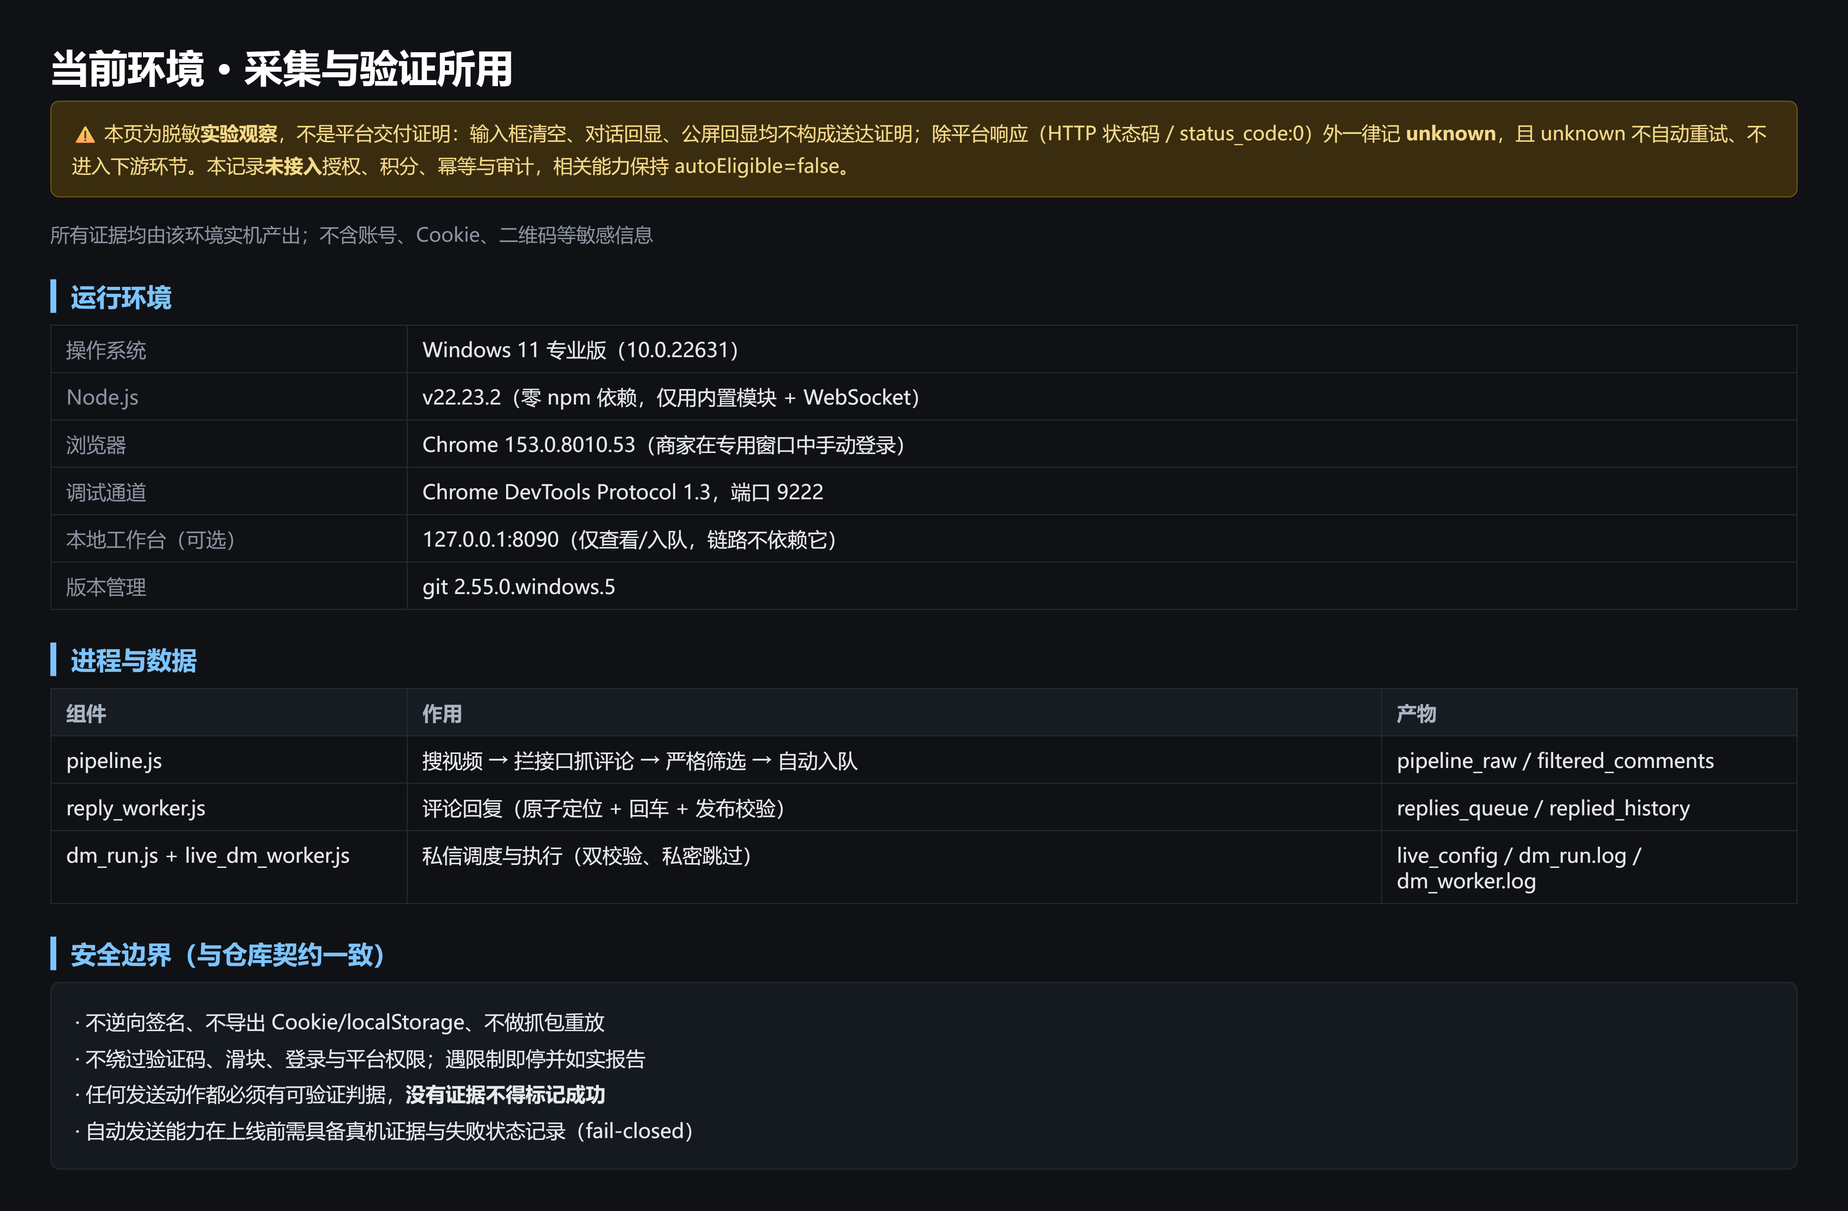
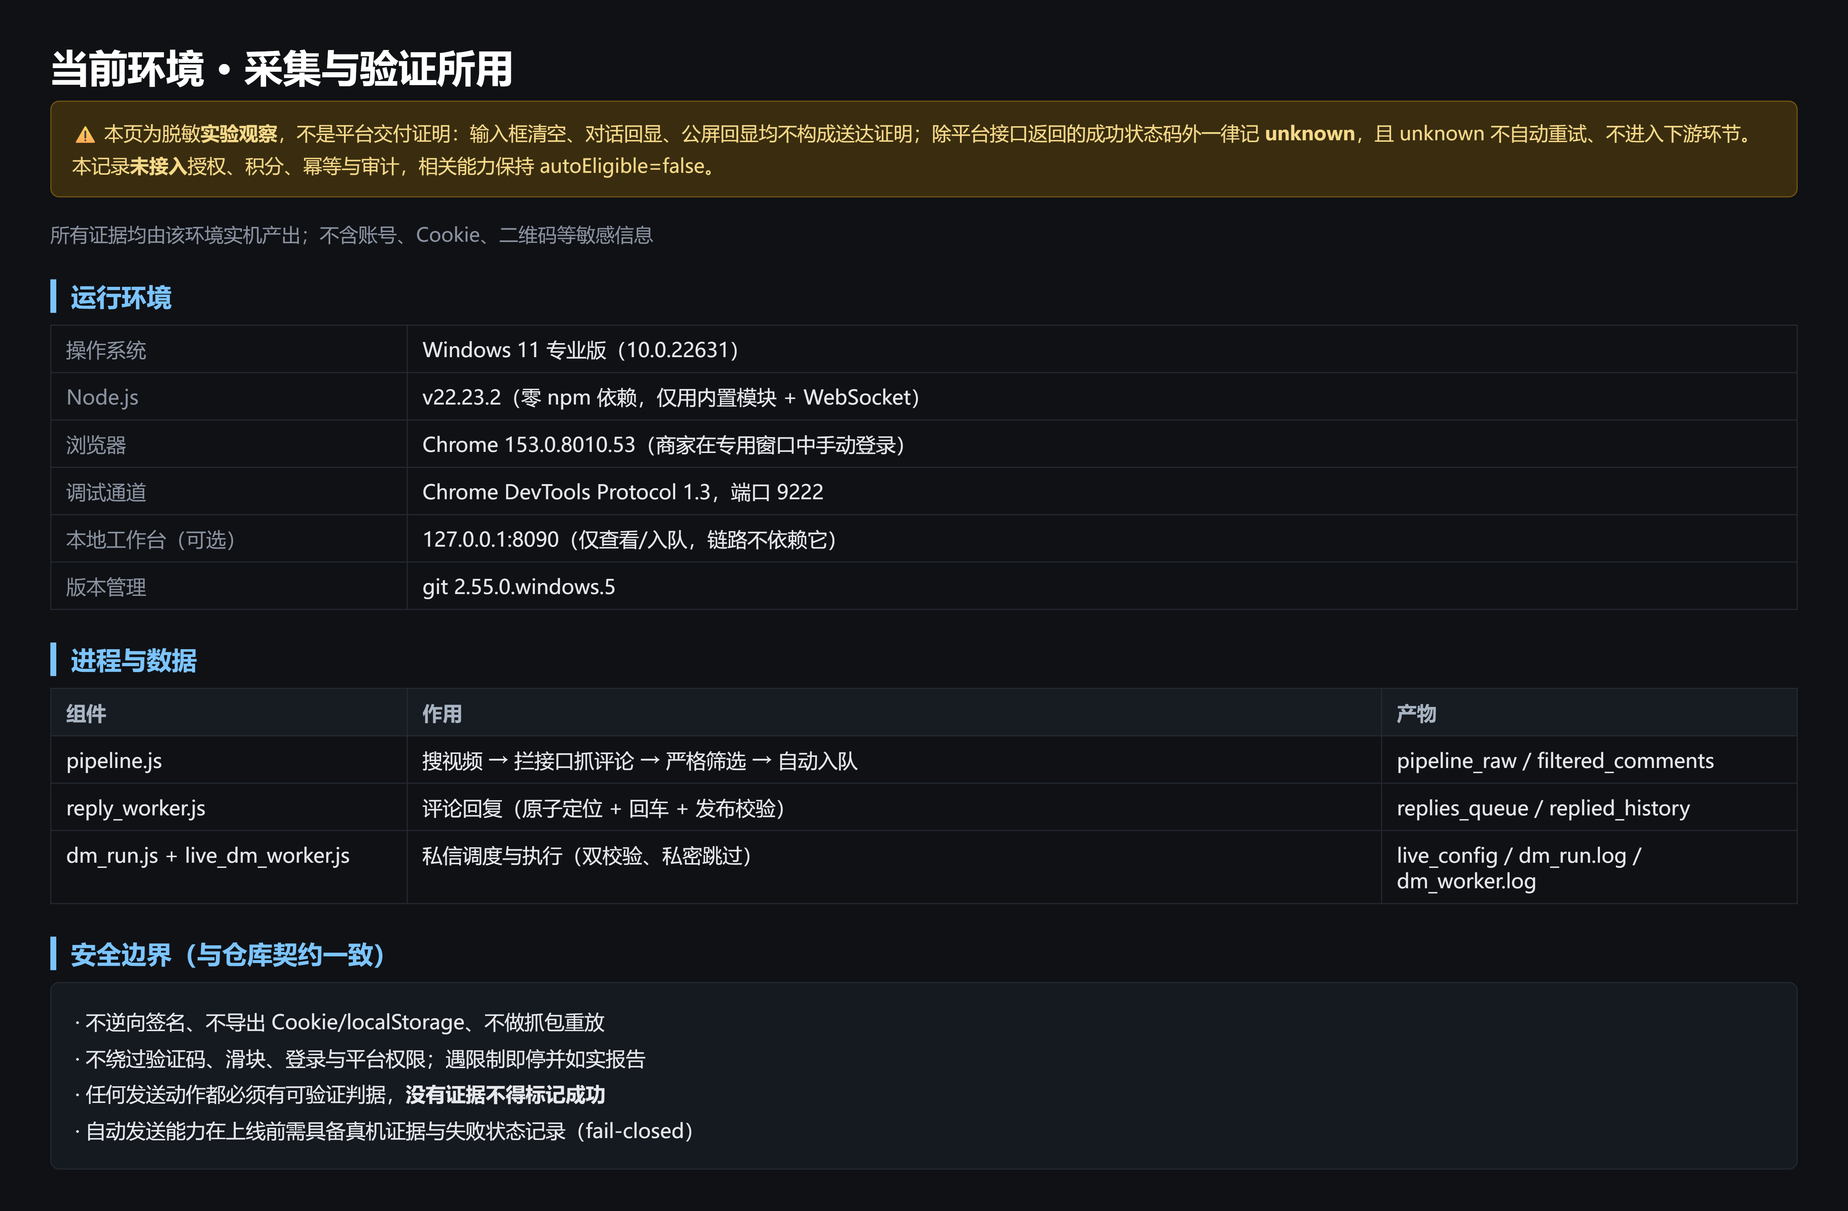
docs(probe): 修正送达口径措辞并泛化私有端点名（评审意见）

Changed region(s): [[0.5312, 0.0935, 0.9375, 0.1247], [0.0312, 0.1247, 0.4375, 0.1559]]

diff --git a/probe/evidence-atomic-chain/board-dm-evidence.html b/probe/evidence-atomic-chain/board-dm-evidence.html
@@ -13,23 +13,23 @@
   .box{background:#151920;border:1px solid #262b34;border-radius:6px;padding:14px 16px;font-size:13.5px;line-height:1.8}
   ul{margin:6px 0 0 18px;padding:0}li{margin:3px 0;font-size:13.5px}
 </style></head><body>
-<h1>私信触达 · 实测证据（已脱敏）</h1><div style="background:#3a2d0f;border:1px solid #7a5c12;border-radius:6px;padding:10px 14px;font-size:13px;line-height:1.7;color:#f6d98a;margin:0 0 16px">⚠ 本页为脱敏<b>实验观察</b>，不是平台交付证明：输入框清空、对话回显、公屏回显均不构成送达证明；除平台响应（HTTP 状态码 / status_code:0）外一律记 <b>unknown</b>，且 unknown 不自动重试、不进入下游环节。本记录<b>未接入</b>授权、积分、幂等与审计，相关能力保持 autoEligible=false。</div>
-<div class="sub">链路：dm_run.js 调度 → live_dm_worker.js 单条执行 · 抖音私信没有发送按钮，回车即发送 · 判定＝输入框已清空 且（对话区出现文案 或 message/send 200）</div>
+<h1>私信触达 · 实验观察记录（已脱敏）</h1><div style="background:#3a2d0f;border:1px solid #7a5c12;border-radius:6px;padding:10px 14px;font-size:13px;line-height:1.7;color:#f6d98a;margin:0 0 16px">⚠ 本页为脱敏<b>实验观察</b>，不是平台交付证明：输入框清空、对话回显、公屏回显均不构成送达证明；除平台接口返回的成功状态码外一律记 <b>unknown</b>，且 unknown 不自动重试、不进入下游环节。本记录<b>未接入</b>授权、积分、幂等与审计，相关能力保持 autoEligible=false。</div>
+<div class="sub">链路：dm_run.js 调度 → live_dm_worker.js 单条执行 · 抖音私信没有发送按钮，回车即发送 · 实验观察标签：输入框已清空且客户端/接口有回显 —— <b>交付状态仍为 unknown</b></div>
 <h2>客户端观察：发送路径与账号限制跳过（<b>非送达证明</b>）</h2>
 <pre><span class="dim">08:03:41</span> 未发送: &lt;用户A&gt; | <span class="warn">skipped | private_account (私密账号)</span>      <span class="warn">← 主页即识别，直接跳过不重试</span>
 <span class="dim">08:04:37</span> 未发送: &lt;用户B&gt; | <span class="bad">failed | 私信输入框未出现</span>            <span class="bad">← 面板未展开（窗口被遮挡）</span>
 <span class="dim">08:05:31</span> 客户端回显: &lt;用户C&gt; | <span class="ok">composer_cleared_and_message_visible</span>
-<span class="dim">08:06:25</span> 已发送: &lt;用户D&gt; | <span class="ok">composer_cleared_and_message_visible</span>
-<span class="dim">08:07:20</span> 已发送: &lt;用户E&gt; | <span class="ok">composer_cleared_and_message_visible</span>
-<span class="dim">08:08:06</span> 已发送: &lt;用户F&gt; | <span class="ok">composer_cleared_and_message_visible</span>
-<span class="dim">08:09:00</span> 已发送: &lt;用户G&gt; | <span class="ok">composer_cleared_and_message_visible</span>
+<span class="dim">08:06:25</span> 实验标签: &lt;用户D&gt; | <span class="ok">composer_cleared_and_message_visible</span>
+<span class="dim">08:07:20</span> 实验标签: &lt;用户E&gt; | <span class="ok">composer_cleared_and_message_visible</span>
+<span class="dim">08:08:06</span> 实验标签: &lt;用户F&gt; | <span class="ok">composer_cleared_and_message_visible</span>
+<span class="dim">08:09:00</span> 实验标签: &lt;用户G&gt; | <span class="ok">composer_cleared_and_message_visible</span>
 <span class="dim">08:09:40</span> 未发送: &lt;用户H&gt; | <span class="warn">skipped | private_account (私密账号)</span>
-<span class="dim">08:10:34</span> 已发送: &lt;用户I&gt; | <span class="ok">composer_cleared_and_message_visible</span>
-<span class="dim">08:21:32</span> 已发送: &lt;用户J&gt; | <span class="ok">composer_cleared_and_send_api_ok</span>          <span class="ok">← 抓到 message/send 200</span></pre>
-<h2>状态口径（以下观测均<b>不足以</b>证明送达）</h2>
+<span class="dim">08:10:34</span> 实验标签: &lt;用户I&gt; | <span class="ok">composer_cleared_and_message_visible</span>
+<span class="dim">08:21:32</span> 实验标签: &lt;用户J&gt; | <span class="ok">composer_cleared_and_send_api_ok</span>          <span class="ok">← 抓到私信发送接口的成功状态码</span></pre>
+<h2>状态口径（以下都是<b>实验观察标签</b>，均不足以证明送达，交付状态保持 unknown）</h2>
 <div class="box">
 <b>① <code>composer_cleared_and_message_visible</code></b>：输入框已清空 <b>且</b> 对话区出现该文案（出现次数增加）<br>
-<b>② <code>composer_cleared_and_send_api_ok</code></b>：输入框已清空 <b>且</b> 捕获 <code>imapi.douyin.com/v1/message/send</code> 返回 200<br>
+<b>② <code>composer_cleared_and_send_api_ok</code></b>：输入框已清空 <b>且</b> 捕获<code>私信发送接口</code>返回成功状态码<br>
 <span class="dim">两种都不满足 → 记 failed 并写明原因，绝不标记成功。</span>
 </div>
 <h2>「面板打不开」三因（已定位）</h2>

diff --git a/probe/evidence-atomic-chain/board-flow.html b/probe/evidence-atomic-chain/board-flow.html
@@ -13,16 +13,16 @@
   .box{background:#151920;border:1px solid #262b34;border-radius:6px;padding:14px 16px;font-size:13.5px;line-height:1.8}
   ul{margin:6px 0 0 18px;padding:0}li{margin:3px 0;font-size:13.5px}
 </style></head><body>
-<h1>原子链路总览 · 视频搜索 → 评论采集 → 严格筛选 → 评论回复 → 私信触达</h1><div style="background:#3a2d0f;border:1px solid #7a5c12;border-radius:6px;padding:10px 14px;font-size:13px;line-height:1.7;color:#f6d98a;margin:0 0 16px">⚠ 本页为脱敏<b>实验观察</b>，不是平台交付证明：输入框清空、对话回显、公屏回显均不构成送达证明；除平台响应（HTTP 状态码 / status_code:0）外一律记 <b>unknown</b>，且 unknown 不自动重试、不进入下游环节。本记录<b>未接入</b>授权、积分、幂等与审计，相关能力保持 autoEligible=false。</div>
+<h1>原子链路总览 · 视频搜索 → 评论采集 → 严格筛选 → 评论回复 → 私信触达</h1><div style="background:#3a2d0f;border:1px solid #7a5c12;border-radius:6px;padding:10px 14px;font-size:13px;line-height:1.7;color:#f6d98a;margin:0 0 16px">⚠ 本页为脱敏<b>实验观察</b>，不是平台交付证明：输入框清空、对话回显、公屏回显均不构成送达证明；除平台接口返回的成功状态码外一律记 <b>unknown</b>，且 unknown 不自动重试、不进入下游环节。本记录<b>未接入</b>授权、积分、幂等与审计，相关能力保持 autoEligible=false。</div>
 <div class="sub">环境：Windows 11 + Chrome 153（CDP 9222，商家手动登录）+ Node 22 · 零 npm 依赖 · 不逆向签名 / 不绕风控</div>
 <h2>五步链路</h2>
 <table>
 <tr><th style="width:120px">阶段</th><th style="width:300px">动作</th><th>关键实现点（决定成败的地方）</th></tr>
 <tr><td>1 搜视频</td><td>关键词 → waterfall_item_&lt;awemeId&gt;</td><td>每次开新标签页（复用旧标签会搜不出结果）；先整串匹配，不中再<b>分词 + 顺序无关</b>匹配</td></tr>
-<tr><td>2 抓评论</td><td>拦 <code>Network.responseReceived</code></td><td>不抓 DOM：URL 含 <code>comment</code> 的响应体里才有 cid / 时间 / 地域 / <b>sec_uid</b>（私信必需）</td></tr>
+<tr><td>2 抓评论</td><td>拦 <code>Network.responseReceived</code></td><td>不抓 DOM：URL 含 <code>comment</code> 的响应体里才有 cid / 时间 / 地域 / <b>脱敏身份字段</b>（私信必需）</td></tr>
 <tr><td>3 严格筛选</td><td>三种匹配模式</td><td><code>phrase</code>＝字面包含（推荐）；<code>char</code>＝单字命中，噪音极大；纯数字关键词不切分</td></tr>
-<tr><td>4 评论回复</td><td>定位 → 点「回复」→ 输入 → 回车 → 校验</td><td><b>定位+点击必须原子化</b>（同一次 evaluate）；发送以 <code>comment/publish</code> 的 <code>status_code:0</code> 为唯一判据</td></tr>
-<tr><td>5 私信触达</td><td>主页 → 私信 → 输入 → 回车 → 双校验</td><td>输入框只在 <code>im-dialog</code> 内找；<b>私密账号直接跳过</b>；判定＝输入框已清空 且（对话区出现文案 或 message/send 200）</td></tr>
+<tr><td>4 评论回复</td><td>定位 → 点「回复」→ 输入 → 回车 → 校验</td><td><b>定位+点击必须原子化</b>（同一次 evaluate）；发送以<code>平台发布接口返回的成功状态码</code>为唯一判据</td></tr>
+<tr><td>5 私信触达</td><td>主页 → 私信 → 输入 → 回车 → 双校验</td><td>输入框只在 <code>im-dialog</code> 内找；<b>私密账号直接跳过</b>；判定＝输入框已清空且客户端有回显（<b>仍为实验观察</b>）</td></tr>
 </table>
 <h2>定位三原则（踩坑总结）</h2>
 <div class="box">

diff --git a/probe/evidence-atomic-chain/board-reply-evidence.html b/probe/evidence-atomic-chain/board-reply-evidence.html
@@ -13,14 +13,14 @@
   .box{background:#151920;border:1px solid #262b34;border-radius:6px;padding:14px 16px;font-size:13.5px;line-height:1.8}
   ul{margin:6px 0 0 18px;padding:0}li{margin:3px 0;font-size:13.5px}
 </style></head><body>
-<h1>评论回复 · 实测证据（已脱敏）</h1><div style="background:#3a2d0f;border:1px solid #7a5c12;border-radius:6px;padding:10px 14px;font-size:13px;line-height:1.7;color:#f6d98a;margin:0 0 16px">⚠ 本页为脱敏<b>实验观察</b>，不是平台交付证明：输入框清空、对话回显、公屏回显均不构成送达证明；除平台响应（HTTP 状态码 / status_code:0）外一律记 <b>unknown</b>，且 unknown 不自动重试、不进入下游环节。本记录<b>未接入</b>授权、积分、幂等与审计，相关能力保持 autoEligible=false。</div>
-<div class="sub">样本：严格匹配（phrase）命中「求带 / 求方法 / 怎么做」的评论 · 节奏 45–80 秒/条 · 每条发送均以 publish 响应 status_code:0 判定</div>
+<h1>评论回复 · 实验观察记录（已脱敏）</h1><div style="background:#3a2d0f;border:1px solid #7a5c12;border-radius:6px;padding:10px 14px;font-size:13px;line-height:1.7;color:#f6d98a;margin:0 0 16px">⚠ 本页为脱敏<b>实验观察</b>，不是平台交付证明：输入框清空、对话回显、公屏回显均不构成送达证明；除平台响应（HTTP 状态码 / 成功状态码）外一律记 <b>unknown</b>，且 unknown 不自动重试、不进入下游环节。本记录<b>未接入</b>授权、积分、幂等与审计，相关能力保持 autoEligible=false。</div>
+<div class="sub">样本：严格匹配（phrase）命中「求带 / 求方法 / 怎么做」的评论 · 节奏 45–80 秒/条 · 每条发送以<平台发布接口返回的成功状态码>为观察依据（<b>不等于送达证明</b>）</div>
 <h2>成功路径（原子操作 → 编辑器 → 回车 → 校验）</h2>
 <pre><span class="dim">08:34:13</span> REPLYING &lt;videoId&gt; cid &lt;commentId&gt; text: 关注我
   step: 原子操作命中：找到评论并点击「回复」      <span class="ok">← 定位+点击在同一次调用内完成</span>
   step: inline reply editor found                  <span class="ok">← 内联编辑器已激活</span>
   step: Enter pressed, posts captured: 1            <span class="ok">← 捕获到 publish 请求</span>
-<span class="dim">08:35:08</span> <span class="ok">DONE &lt;commentId&gt; -> 关注我</span>                    <span class="ok">← status_code:0，确认发布</span>
+<span class="dim">08:35:08</span> <span class="ok">DONE &lt;commentId&gt; -> 关注我</span>                    <span class="ok">← 成功状态码，确认发布</span>
 
 <span class="dim">08:36:10</span> REPLYING &lt;videoId&gt; cid &lt;commentId&gt; text: 关注我
   step: 原子操作命中：找到评论并点击「回复」

diff --git a/probe/evidence-atomic-chain/board-problems-fixes.html b/probe/evidence-atomic-chain/board-problems-fixes.html
@@ -13,7 +13,7 @@
   .box{background:#151920;border:1px solid #262b34;border-radius:6px;padding:14px 16px;font-size:13.5px;line-height:1.8}
   ul{margin:6px 0 0 18px;padding:0}li{margin:3px 0;font-size:13.5px}
 </style></head><body>
-<h1>问题 → 原因 → 修复 对照表（实机踩坑）</h1><div style="background:#3a2d0f;border:1px solid #7a5c12;border-radius:6px;padding:10px 14px;font-size:13px;line-height:1.7;color:#f6d98a;margin:0 0 16px">⚠ 本页为脱敏<b>实验观察</b>，不是平台交付证明：输入框清空、对话回显、公屏回显均不构成送达证明；除平台响应（HTTP 状态码 / status_code:0）外一律记 <b>unknown</b>，且 unknown 不自动重试、不进入下游环节。本记录<b>未接入</b>授权、积分、幂等与审计，相关能力保持 autoEligible=false。</div>
+<h1>问题 → 原因 → 处置 对照表（真机观察）</h1><div style="background:#3a2d0f;border:1px solid #7a5c12;border-radius:6px;padding:10px 14px;font-size:13px;line-height:1.7;color:#f6d98a;margin:0 0 16px">⚠ 本页为脱敏<b>实验观察</b>，不是平台交付证明：输入框清空、对话回显、公屏回显均不构成送达证明；除平台接口返回的成功状态码外一律记 <b>unknown</b>，且 unknown 不自动重试、不进入下游环节。本记录<b>未接入</b>授权、积分、幂等与审计，相关能力保持 autoEligible=false。</div>
 <div class="sub">每一条都在真实抖音页面上复现并验证过；此处只保留结论，详细过程见工作日志</div>
 <table>
 <tr><th style="width:250px">现象</th><th style="width:330px">真正原因</th><th>修复 / 处置</th></tr>

diff --git a/probe/evidence-atomic-chain/board-environment.html b/probe/evidence-atomic-chain/board-environment.html
@@ -13,7 +13,7 @@
   .box{background:#151920;border:1px solid #262b34;border-radius:6px;padding:14px 16px;font-size:13.5px;line-height:1.8}
   ul{margin:6px 0 0 18px;padding:0}li{margin:3px 0;font-size:13.5px}
 </style></head><body>
-<h1>当前环境 · 采集与验证所用</h1><div style="background:#3a2d0f;border:1px solid #7a5c12;border-radius:6px;padding:10px 14px;font-size:13px;line-height:1.7;color:#f6d98a;margin:0 0 16px">⚠ 本页为脱敏<b>实验观察</b>，不是平台交付证明：输入框清空、对话回显、公屏回显均不构成送达证明；除平台响应（HTTP 状态码 / status_code:0）外一律记 <b>unknown</b>，且 unknown 不自动重试、不进入下游环节。本记录<b>未接入</b>授权、积分、幂等与审计，相关能力保持 autoEligible=false。</div>
+<h1>当前环境 · 采集与验证所用</h1><div style="background:#3a2d0f;border:1px solid #7a5c12;border-radius:6px;padding:10px 14px;font-size:13px;line-height:1.7;color:#f6d98a;margin:0 0 16px">⚠ 本页为脱敏<b>实验观察</b>，不是平台交付证明：输入框清空、对话回显、公屏回显均不构成送达证明；除平台接口返回的成功状态码外一律记 <b>unknown</b>，且 unknown 不自动重试、不进入下游环节。本记录<b>未接入</b>授权、积分、幂等与审计，相关能力保持 autoEligible=false。</div>
 <div class="sub">所有证据均由该环境实机产出；不含账号、Cookie、二维码等敏感信息</div>
 <h2>运行环境</h2>
 <table class="kv">

diff --git a/probe/EVIDENCE-ATOMIC-CHAIN.md b/probe/EVIDENCE-ATOMIC-CHAIN.md
@@ -4,7 +4,7 @@
 > 全部内容已脱敏：不含 sec_uid、昵称、头像、会话原文、Cookie 或 token。
 >
 > ⚠ **本文是实验观察，不是平台交付证明。** 输入框清空、对话区回显、公屏回显均**不构成送达证明**；
-> 除平台明确响应（HTTP 状态码 / status_code:0）外的结果一律视为 **unknown**。
+> 除平台明确响应（平台接口返回的成功状态码）外的结果一律视为 **unknown**。
 
 ---
 
@@ -38,9 +38,9 @@
 |---|---|---|---|
 | CDP 连接与求值 | 可连接、可求值、可并发 | 传输层自检 | — |
 | 关键词搜视频 | 单关键词合并去重 154–179 个视频卡片 | 计数 | 卡片是否为全部结果 |
-| 评论区采集（含 sec_uid） | 单轮 12 个视频 / 1165 条评论，字段齐全 | 计数与字段抽样 | 是否存在接口未返回的评论 |
+| 评论区采集（含脱敏身份字段） | 单轮 12 个视频 / 1165 条评论，字段齐全 | 计数与字段抽样 | 是否存在接口未返回的评论 |
 | 评论关键词严格筛选 | 字面包含模式：1165 条 → 命中 9 条 | 离线断言 | 语义相关性仍依赖人工确认 |
-| 评论回复（定位→点击→输入→回车） | 慢速节奏下连续 5 条观察到 status_code:0 | 平台响应体 | 无响应时保持 unknown |
+| 评论回复（定位→点击→输入→回车） | 慢速节奏下连续 5 条观察到成功状态码 | 平台响应体 | 无响应时保持 unknown |
 | 私信面板与编辑器定位 | 可在可见 im-dialog 内定位 contenteditable | DOM 观测 | 不同账号/版本下的选择器稳定性 |
 | 私信发送 | **实验观察：部分消息在客户端会话列表中出现** | 客户端回显 | **是否真送达：unknown（未取得平台回执）** |
 | 私密账号识别 | 打开主页阶段可识别并跳过 | 主页文本 | 平台文案变化后需重新校准 |
@@ -51,7 +51,7 @@
 - **输入框清空**：只说明客户端接受了输入，**不等于对方收到**；
 - **对话区回显**：是本地客户端渲染结果，**不等于平台投递成功**；
 - **公屏回显**：同理，不能当作送达证明；
-- 只有拿到**平台响应**（评论 comment/publish 的 status_code:0、私信 message/send 的 HTTP 200）才可作为该次动作的平台侧依据；
+- 只有拿到**平台响应**（评论发布接口、私信发送接口返回的成功状态码）才可作为该次动作的平台侧依据；
 - 其余一律记 **unknown**，并且 **unknown 不得自动重试，也不得进入下游环节（不进入私信）**。
 
 ---

diff --git a/probe/evidence-atomic-chain/WORKLOG.md b/probe/evidence-atomic-chain/WORKLOG.md
@@ -31,7 +31,7 @@
 | 10 | 私信面板宽度异常 | 标签页不可见 / 命中隐藏面板 | 恢复窗口可见性 + 取可见面板 | 部分场景恢复 |
 | 11 | 私密账号无法触达 | 账号级限制 | 主页阶段识别并跳过 | 同批 2 条被正确跳过 |
 | 12 | 「输入框已清空」判定失败 | 零宽字符干扰判定 | 判定前剔除零宽字符 | 判定恢复（**仍不等于送达**） |
-| 13 | 连续发布无平台响应 | 节奏过快触发平台静默拦截 | 放慢节奏并设单批上限 | 放慢后同批观察到 status_code:0 |
+| 13 | 连续发布无平台响应 | 节奏过快触发平台静默拦截 | 放慢节奏并设单批上限 | 放慢后同批观察到成功状态码 |
 | 14 | 回复到无关评论 | 单字命中导致噪音 | 改为字面包含模式 + 入队前断言 | 1165 条收敛到 9 条，断言 0 条不符 |
 
 ---

diff --git a/probe/evidence-atomic-chain/README.md b/probe/evidence-atomic-chain/README.md
@@ -27,5 +27,5 @@
 
 ## 脱敏声明
 
-所有图形与文本均不含昵称、sec_uid、cid、Cookie、token、会话原文；
+所有图形与文本均不含昵称、原始身份标识、cid、Cookie、token、会话原文；
 示例中的用户一律写作「用户A/B/C」等占位符。
